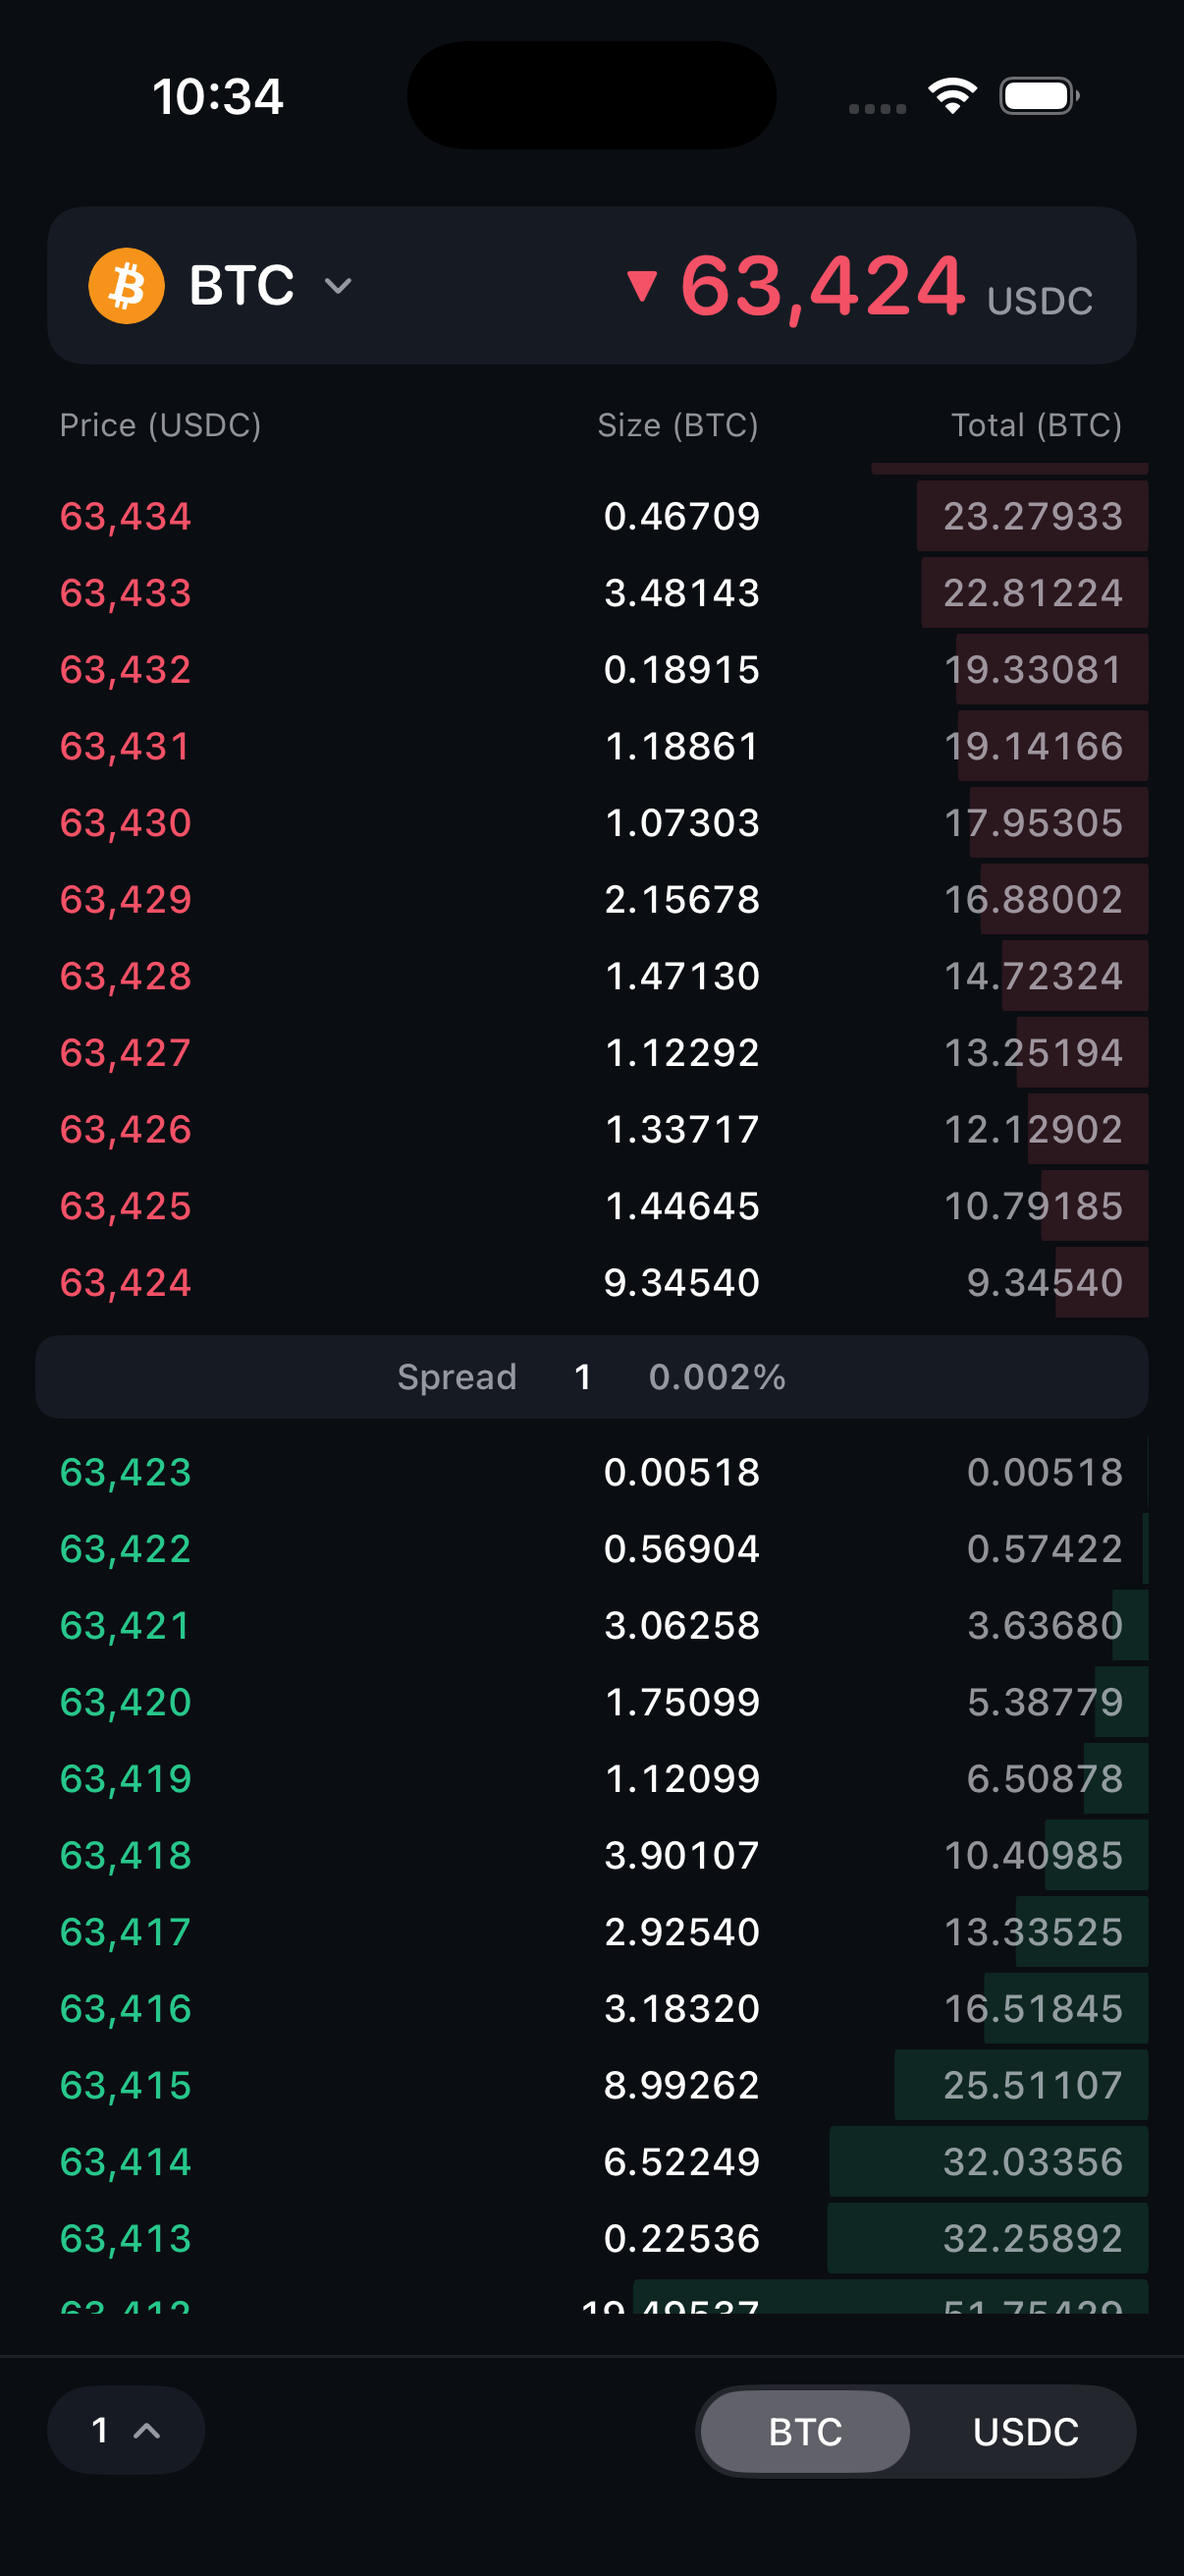
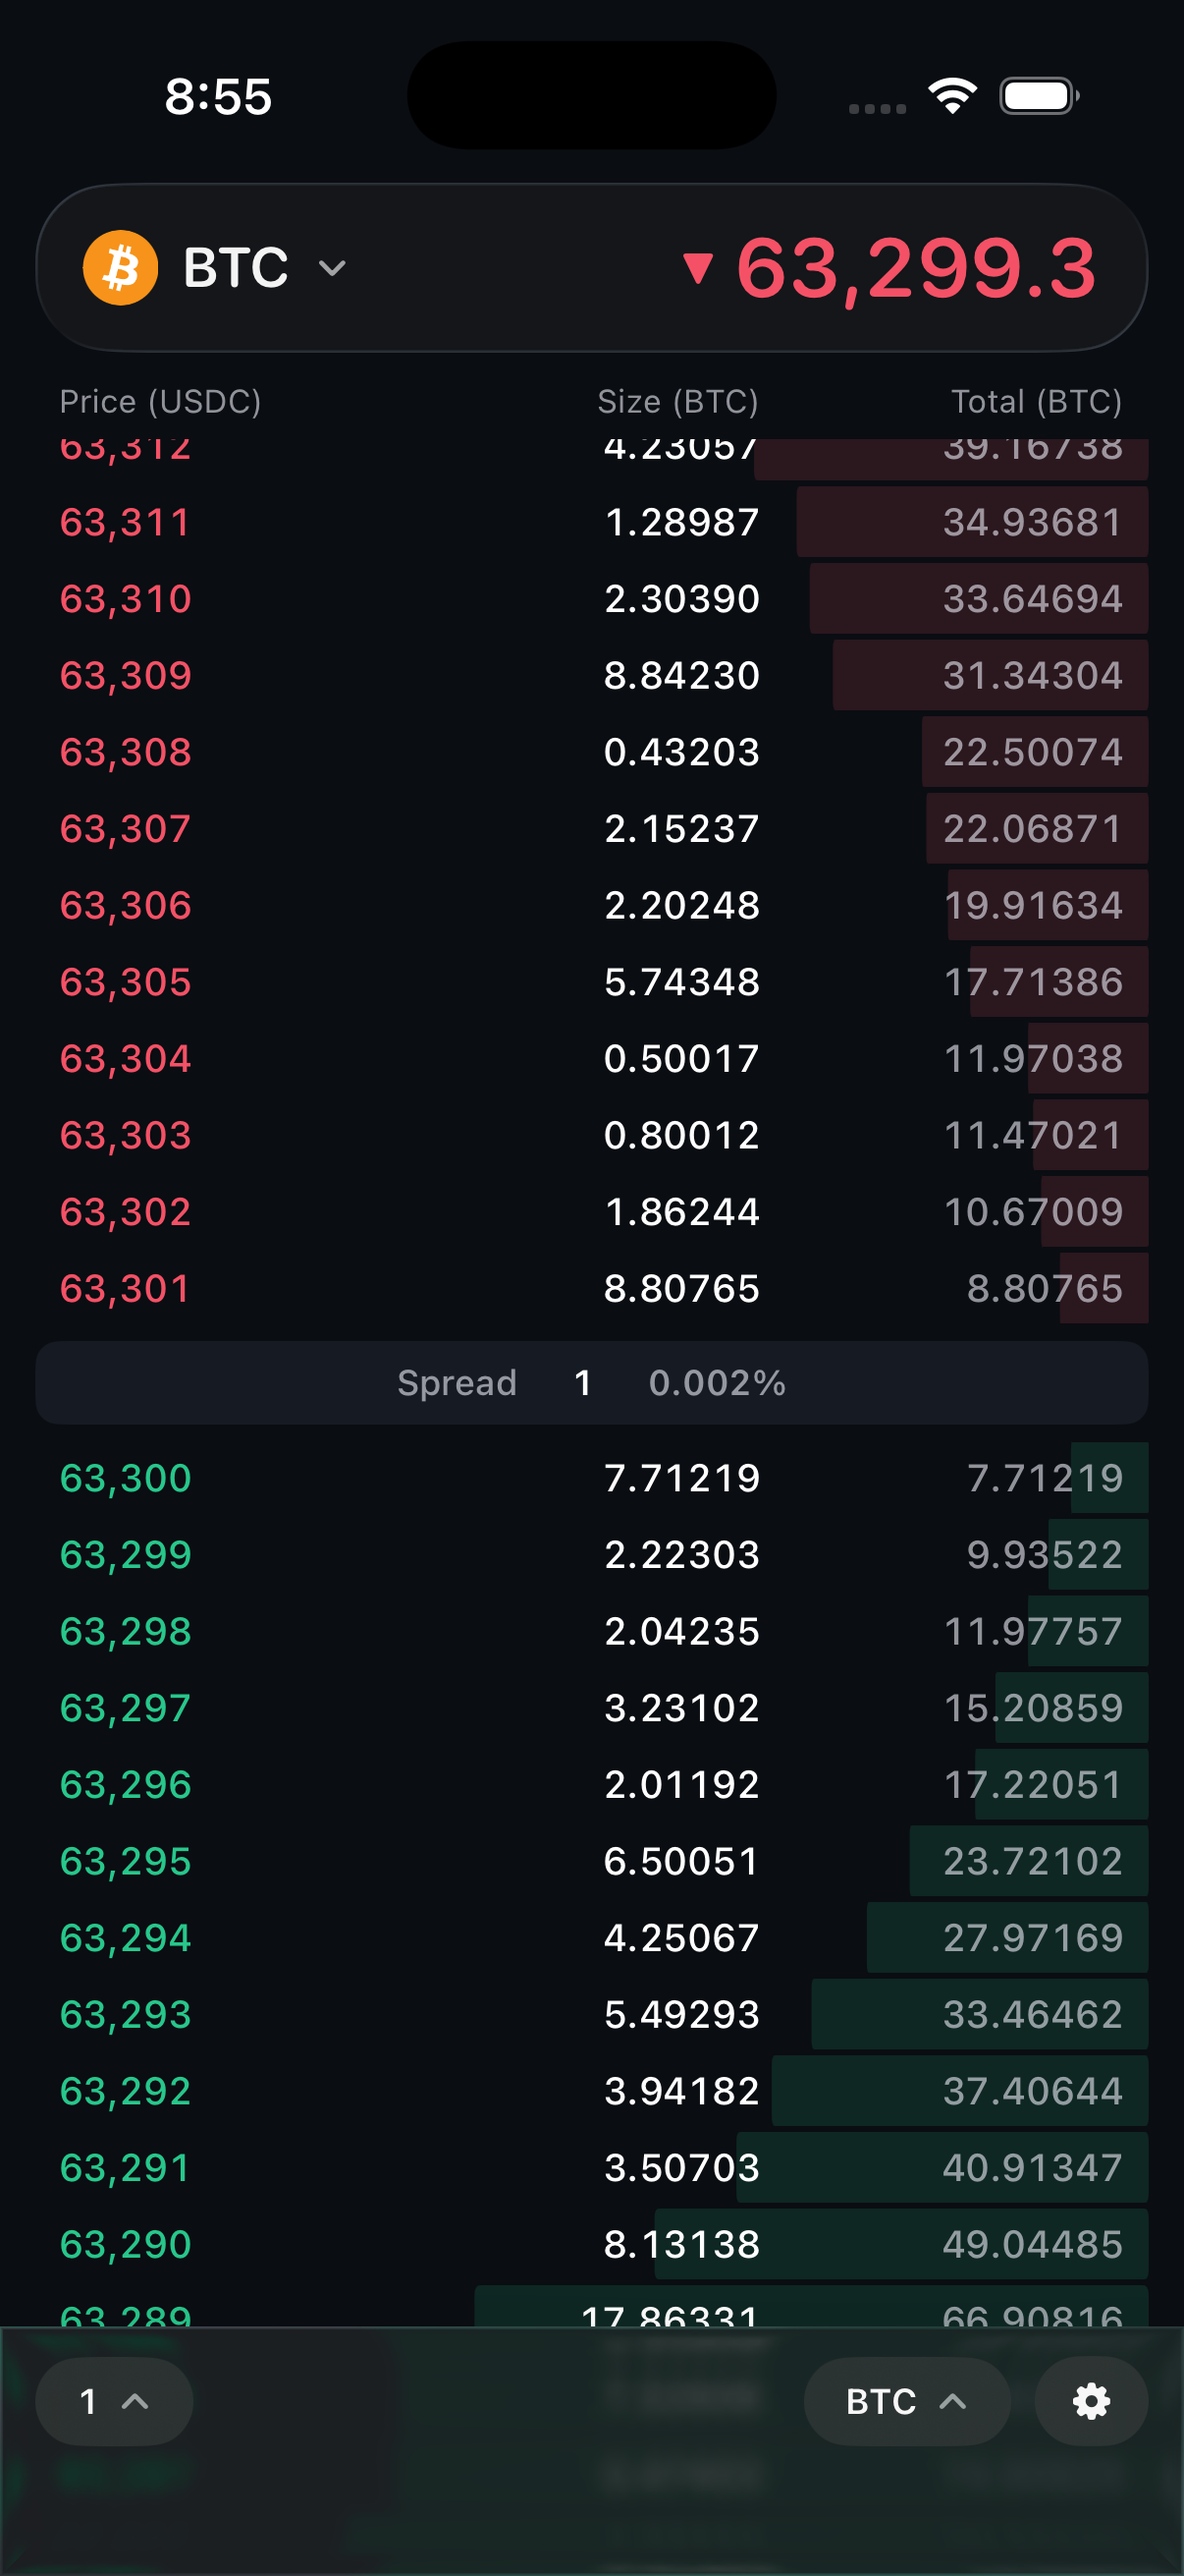
Unfold the book from the spread and remember the last market

diff --git a/HLOrderbook/Components/OrderbookView.swift b/HLOrderbook/Components/OrderbookView.swift
@@ -43,6 +43,11 @@ struct OrderbookView: View {
     var model: OrderbookViewModel
     var isWide = false
 
+    /// Drives the opening animation: rows start stacked where the spread is
+    /// and fan out to their places, nearest first.
+    @State private var unfolded = false
+    @State private var unfoldTask: Task<Void, Never>?
+
     @State private var selected: SelectedLevel?
     @State private var rowFrames: [RowFrame] = []
     /// Where the inspected level was last seen, so the popover stays put if
@@ -86,18 +91,25 @@ struct OrderbookView: View {
                 // A single popover anchored to the target row, rather
                 // than one attached to each of the forty rows.
                 .overlay(alignment: .topLeading) { inspectorAnchor(target) }
-                // Kept in the hierarchy while loading — so the spread row
-                // isn't left sitting there with placeholders, but the layout
-                // is ready to scroll into place the moment the book lands.
-                .opacity(model.hasBook ? 1 : 0)
             }
             .scrollDisabled(selected != nil)
             // Centre on the spread once the first book lands, and again
             // whenever the market changes. Side by side there is no spread
             // row: both columns already start at the touch of the book.
             .onChange(of: model.hasBook) { _, loaded in
-                guard loaded else { return }
+                unfoldTask?.cancel()
+                guard loaded else {
+                    unfolded = false
+                    return
+                }
                 proxy.scrollTo(isWide ? "top" : "spread", anchor: isWide ? .top : .center)
+                // A beat before unfolding, so the fold reads as finished
+                // rather than reversing into the new book.
+                unfoldTask = Task { @MainActor in
+                    try? await Task.sleep(for: .milliseconds(150))
+                    guard !Task.isCancelled else { return }
+                    unfolded = true
+                }
             }
             .onChange(of: isWide) { _, wide in
                 proxy.scrollTo(wide ? "top" : "spread", anchor: wide ? .top : .center)
@@ -129,6 +141,10 @@ struct OrderbookView: View {
             SpreadRowView(spreadText: model.spreadText, percentText: model.spreadPercentText)
                 .id("spread")
                 .padding(.vertical, 4)
+                // Hidden between books, so it's never left showing
+                // placeholders while the rows fold and unfold around it.
+                .opacity(model.hasBook ? 1 : 0)
+                .animation(.easeOut(duration: 0.15), value: model.hasBook)
             ForEach(model.bids) { row in
                 levelRow(row, side: .bid, highlighted: highlighted)
             }
@@ -214,6 +230,49 @@ struct OrderbookView: View {
                 }
             }
         }
+        // Each animation sits directly above the property it drives: an
+        // animation modifier only governs what's below it, so opacity has to
+        // come first or its fade is dropped and it switches outright.
+        .opacity(unfolded ? 1 : 0)
+        .animation(fadeAnimation(slot: row.slot), value: unfolded)
+        // An offset, not a layout change, so the fan-out costs nothing but a
+        // transform — and the rows stay where the inspector expects them.
+        // Unfolds from the spread outwards and folds back the other way, the
+        // far rows leaving first, so the book gathers into the spread rather
+        // than stalling at its edges while the next one loads.
+        .offset(y: unfolded ? 0 : collapsedOffset(slot: row.slot, isAsk: side == .ask))
+        .animation(travelAnimation(slot: row.slot), value: unfolded)
+    }
+
+    private static let rowStagger = 0.006
+
+    private func travelAnimation(slot: Int) -> Animation {
+        unfolded
+            ? .spring(response: 0.34, dampingFraction: 0.82).delay(delay(slot: slot))
+            : .spring(response: 0.28, dampingFraction: 0.9).delay(delay(slot: slot))
+    }
+
+    private func fadeAnimation(slot: Int) -> Animation {
+        unfolded
+            ? .easeOut(duration: 0.28).delay(delay(slot: slot))
+            : .easeIn(duration: 0.2).delay(delay(slot: slot))
+    }
+
+    /// Nearest the spread leads the way out; the outermost row leads the way
+    /// back in.
+    private func delay(slot: Int) -> Double {
+        let step = unfolded ? slot : (OrderbookViewModel.depthLevels - 1 - slot)
+        return Double(step) * Self.rowStagger
+    }
+
+    /// Where a row sits before it unfolds: stacked on the spread in the
+    /// ladder, on the first row in the two-column layout.
+    private func collapsedOffset(slot: Int, isAsk: Bool) -> CGFloat {
+        let step = rowHeight + 2
+        if isWide {
+            return -CGFloat(slot) * step
+        }
+        return CGFloat(slot + 1) * step * (isAsk ? 1 : -1)
     }
 
     private func level(at point: CGPoint) -> SelectedLevel? {

diff --git a/HLOrderbook/ViewModels/OrderbookViewModel.swift b/HLOrderbook/ViewModels/OrderbookViewModel.swift
@@ -81,14 +81,18 @@ final class OrderbookViewModel {
     private(set) var spreadPercentText = "—"
     private(set) var hasBook = false
 
+    /// Restored on launch, so the app opens on the market last looked at.
     var coin: Coin = .btc {
         didSet {
             guard coin != oldValue else { return }
             Haptics.selection()
+            store.set(coin.rawValue, forKey: Self.coinKey)
             resetContext()
             resubscribe()
         }
     }
+
+    private static let coinKey = "selectedCoin"
 
     /// The feed parameters behind one price-grouping choice.
     struct Grouping: Hashable {
@@ -196,10 +200,18 @@ final class OrderbookViewModel {
 
     private let priceFormatter: NumberFormatter
     private let sizeFormatter: NumberFormatter
+    private let store: UserDefaults
 
-    init() {
+    init(store: UserDefaults = .standard) {
+        self.store = store
         asks = (0..<Self.depthLevels).map { Row(id: "ask-\($0)", slot: $0) }
         bids = (0..<Self.depthLevels).map { Row(id: "bid-\($0)", slot: $0) }
+
+        // Assigning here doesn't run the observer, so restoring costs no
+        // haptic and no resubscribe — `start()` picks it up instead.
+        if let saved = store.string(forKey: Self.coinKey), let restored = Coin(rawValue: saved) {
+            coin = restored
+        }
 
         priceFormatter = NumberFormatter()
         priceFormatter.numberStyle = .decimal
@@ -254,8 +266,9 @@ final class OrderbookViewModel {
         pendingBook = nil
         spreadText = "—"
         spreadPercentText = "—"
-        for index in asks.indices { clear(&asks[index]) }
-        for index in bids.indices { clear(&bids[index]) }
+        // The row slots keep their last contents on purpose: `hasBook` is
+        // already false, so the view knows to fold them away, and it needs
+        // something to fold. The next snapshot overwrites them.
     }
 
     /// Only the coin invalidates the header and bbo; re-grouping keeps them.

diff --git a/README.md b/README.md
@@ -7,21 +7,35 @@ websocket feed, built with Swift/SwiftUI only — no third-party dependencies.
   <img src="docs/screenshot.png" width="300" alt="HLOrderbook — live BTC book" />
 </p>
 <p>
+  <img src="docs/screenshot-landscape.png" width="612" alt="HLOrderbook — two-column landscape layout" />
+</p>
+<p>
   <em>BTC/ETH · live depth · price grouping (nSigFigs/mantissa) · level
-  inspector · haptics · Dynamic Type</em>
+  inspector · two-column landscape · light &amp; dark · haptics · Dynamic
+  Type</em>
 </p>
 
 ## Run
 
 Open `HLOrderbook.xcodeproj` in Xcode 16+ and run the `HLOrderbook` scheme on
 any iOS 17+ simulator or device. There is nothing to configure — the app
-connects straight to `wss://api.hyperliquid.xyz/ws`.
+connects straight to `wss://api.hyperliquid.xyz/ws`. The glass chrome uses
+iOS 26's Liquid Glass where available and falls back to a blurred material on
+older systems.
 
 ## Features
 
 - **Live L2 book** — subscribes to the `l2Book` channel; asks above, bids
-  below, with the spread pinned between them. The list scrolls natively and is
-  anchored on the spread, so deeper levels are a swipe away.
+  below, with the spread pinned between them. The list scrolls natively
+  beneath the floating glass header and toolbar, anchored on the spread so
+  deeper levels are a swipe away. Nothing renders until the first snapshot
+  lands — just a spinner.
+- **Two-column landscape** — past 600 pt of width the book reflows into bids
+  and asks side by side, prices meeting in the middle and depth bars growing
+  outward: twice the visible levels where the screen allows it. The trigger
+  is width, not orientation, so iPads get it in both orientations. The spread
+  moves to the centre of the toolbar, since the side-by-side book has no
+  spread row.
 - **Symbol selection** — BTC / ETH via a searchable market-picker sheet; the
   pattern scales past two assets (another market is one enum case away).
   Switching re-subscribes on the live socket (no reconnect) and re-centers
@@ -33,12 +47,12 @@ connects straight to `wss://api.hyperliquid.xyz/ws`.
   do. Steps are derived from the current price magnitude and mapped back to
   the `nSigFigs` (and `mantissa`, for the 2× and 5× steps) the feed expects,
   applied by re-subscribing.
-- **True spread** — the spread row always shows the real market spread from
-  the full-precision `bbo` stream, matching Hyperliquid: grouping is a
+- **True spread** — the spread readout always shows the real market spread
+  from the full-precision `bbo` stream, matching Hyperliquid: grouping is a
   display convenience and shouldn't inflate the apparent cost of crossing
-  the book. Updates are sampled at most every 500 ms so the row doesn't
+  the book. Updates are sampled at most every 500 ms so the number doesn't
   strobe through re-quoting transients during fast markets.
-- **Size units** — a toolbar toggle shows sizes and totals either in the coin
+- **Size units** — a toolbar menu shows sizes and totals either in the coin
   (BTC/ETH) or in USDC notional; switching re-renders the stored snapshot
   without touching the subscription.
 - **Header price** — the mark price comes from the `activeAssetCtx` channel,
@@ -57,12 +71,16 @@ connects straight to `wss://api.hyperliquid.xyz/ws`.
   price: a genuinely new level, or its resting size at least doubling.
   Levels that merely scroll in past the far edge of the window don't flash, so
   the effect stays rare enough to mean something.
+- **Light and dark appearance** — switchable from Settings and persisted; all
+  colors live in the asset catalog with per-appearance variants, so both
+  themes come from one palette.
+- **Settings** — a sheet off the toolbar's gear: appearance, haptics on/off,
+  and what the app is subscribed to.
 - **Haptics** — selection feedback when changing symbol, grouping, or units,
   and as the level inspector moves from row to row; muted from Settings.
-- **Dynamic Type** — all text scales with the user's setting via
-  `@ScaledMetric` (including the UIKit segmented control, which doesn't track
-  it on its own), capped below the accessibility sizes where the book's three
-  columns stop fitting side by side.
+- **Dynamic Type** — text scales with the user's setting via `@ScaledMetric`
+  (row heights included), capped below the accessibility sizes where the
+  book's three columns stop fitting side by side.
 - **Resilience** — keep-alive pings every 45 s, automatic reconnection with
   exponential backoff, and the socket is torn down/restored as the app
   backgrounds/foregrounds.
@@ -78,24 +96,29 @@ Feed/
 ViewModels/
   OrderbookViewModel  turns snapshots into fixed-identity row slots, coalesces
                       bursts to ≤10 UI applies/sec, pre-formats all strings.
-  Preferences         settings that outlive a launch.
+  Preferences         appearance and haptics, persisted across launches.
 Screens/
-  RootView            tab bar; owns the model and the feed's lifecycle, so
-                      switching tabs never tears the socket down.
-  OrderbookScreen     the book tab: header, book, toolbar.
-  SettingsScreen      haptics toggle, feed and version info.
+  RootView            owns the model and the feed's lifecycle.
+  OrderbookScreen     lays the header, book, and toolbar into the screen and
+                      picks the ladder or two-column layout by width.
+  SettingsScreen      appearance, haptics, feed info — presented as a sheet.
   MarketPickerSheet   searchable market list.
 Components/
-  MarketHeaderBar     market button and live mark price.
-  OrderbookView       the book: scroll view anchored on the spread, plus the
-                      press-and-scrub inspector.
-  LevelRowView        one price level: columns, depth bar, flash.
-  SpreadRowView       the divider showing the true spread.
+  MarketHeaderBar     market button and live mark price, on glass.
+  OrderbookView       the book: ladder or columns, plus the press-and-scrub
+                      inspector.
+  LevelRowView        one price level; its column order and bar direction
+                      adapt to ladder / left / right layouts.
+  BookColumnHeader    column titles, mirrorable for the right-hand column.
+  SpreadRowView       the ladder's divider showing the true spread.
   LevelStatsView      the inspector's popover contents.
-  BookToolbar         grouping menu and unit toggle.
+  BookToolbar         grouping menu, unit menu, settings — and the spread,
+                      centred, in the wide layout.
   PressAndScrub       UIKit long-press bridge that coexists with scrolling.
 Design/
-  Theme, Haptics      colors and feedback.
+  Theme               palette, from the asset catalog (light + dark).
+  Haptics             pre-warmed feedback with a global mute.
+  GlassBackground     Liquid Glass on iOS 26, material fallback below.
 ```
 
 Performance notes:
@@ -107,8 +130,8 @@ Performance notes:
   100 ms, so bursts never queue up stale renders; spread updates from the
   chattier `bbo` stream are sampled at 500 ms.
 - Rows whose content didn't change in a snapshot **skip re-rendering**
-  entirely (`Equatable` views), and the depth bar is a trailing-anchored
-  scale transform — no per-row `GeometryReader`, no layout pass on change.
+  entirely (`Equatable` views), and the depth bar is an anchored scale
+  transform — no per-row `GeometryReader`, no layout pass on change.
 - All number formatting happens once per snapshot in the view model, not in
   view bodies; digits are monospaced to avoid layout jitter.
 - The level inspector is **one shared popover** anchored to the selected row,
